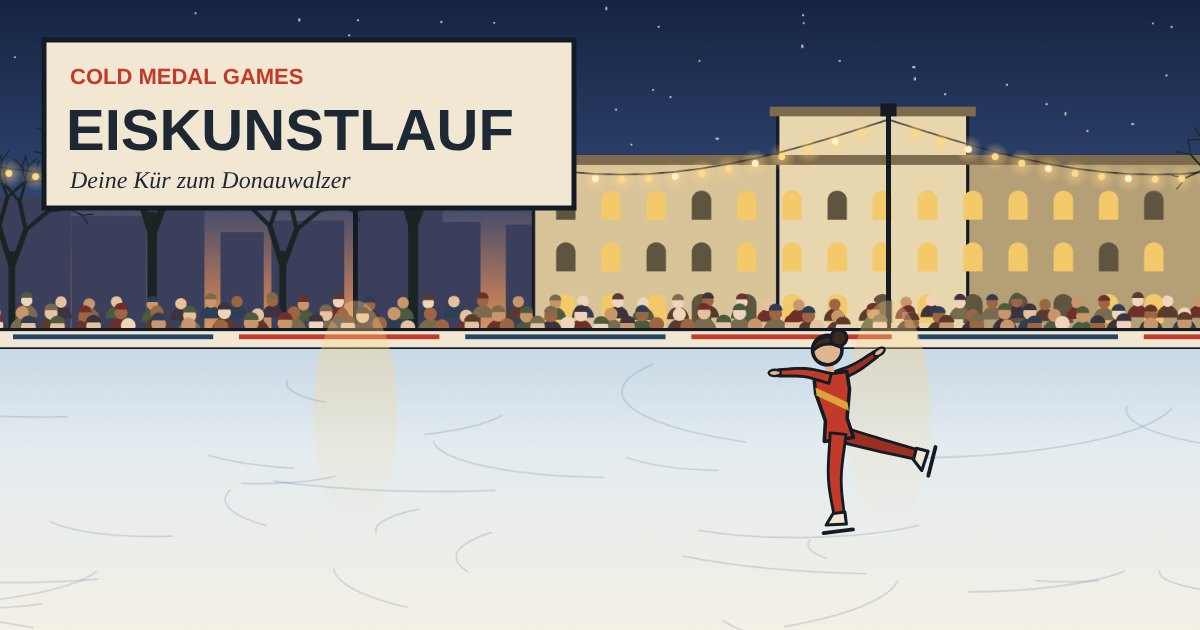
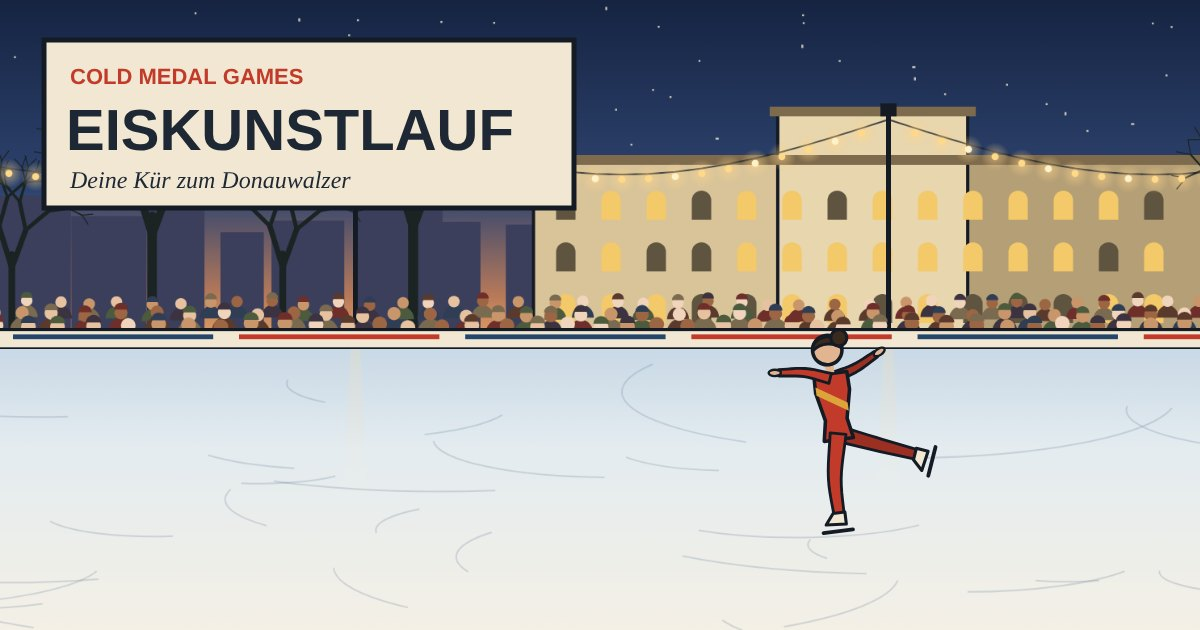
Eiskunstlauf 0.2.4: keine gelben Flecken auf dem Eis
Claude-Session: https://claude.ai/code/session_014DHnXgtg4kguC8BCH6aDVR

Changed region(s): [[0.2467, 0.4825, 0.3392, 0.6635], [0.7092, 0.4825, 0.7708, 0.6635]]

diff --git a/index.html b/index.html
@@ -1171,9 +1171,10 @@ tr.fall td.e, tr.miss td.e { color: var(--red); }
     const ice = g.createLinearGradient(0, ICE_TOP, 0, H);
     ice.addColorStop(0, "#C9D9E6"); ice.addColorStop(0.35, "#E4ECF0"); ice.addColorStop(1, "#F4F0E6");
     g.fillStyle = ice; g.fillRect(0, ICE_TOP, w, H - ICE_TOP);
+    // Spiegelung der Laternen: schmaler, zarter Lichtstreif, der nach vorn ausläuft
     for (const x of posts) {
-      const gl = g.createLinearGradient(0, ICE_TOP, 0, ICE_TOP + 110); gl.addColorStop(0, "rgba(255,214,140,0.35)"); gl.addColorStop(1, "rgba(255,214,140,0)");
-      g.fillStyle = gl; g.beginPath(); g.ellipse(x, ICE_TOP + 40, 26, 70, 0, 0, 7); g.fill();
+      const gl = g.createLinearGradient(0, ICE_TOP, 0, ICE_TOP + 90); gl.addColorStop(0, "rgba(255,226,170,0.22)"); gl.addColorStop(1, "rgba(255,226,170,0)");
+      g.fillStyle = gl; g.beginPath(); g.moveTo(x - 3, ICE_TOP); g.lineTo(x + 3, ICE_TOP); g.lineTo(x + 7, ICE_TOP + 90); g.lineTo(x - 7, ICE_TOP + 90); g.closePath(); g.fill();
     }
     g.strokeStyle = "rgba(120,140,160,0.28)"; g.lineWidth = 1;
     for (let i = 0; i < 90; i++) {
@@ -1212,7 +1213,7 @@ tr.fall td.e, tr.miss td.e { color: var(--red); }
 /* COLD MEDAL EISKUNSTLAUF – Ablauf, Bildschirme, Eingabe, Taktband, Ergebnis, Spielstand. */
 (function () {
   "use strict";
-  const VERSION = "0.2.3";
+  const VERSION = "0.2.4";
   // Seiten-Einstellungen aus dem Build (eigenes Hosting: Adresse, Hoster, Impressum); im claude.ai-Artefakt leer
   const SITE = Object.assign({ web: false, url: "", impressum: null }, {"web": true, "url": "https://matpeins-debug.github.io/cold-medal-eiskunstlauf/", "hoster": "GitHub Pages (GitHub Inc., USA)", "drittland": "GitHub ist nach dem EU-US Data Privacy Framework zertifiziert; die Übermittlung in die USA stützt sich auf den Angemessenheitsbeschluss der EU-Kommission dazu.", "impressum": {"name": "", "adresse": "", "mail": ""}} || {});
   const M = window.EKMusic, K = window.EKSkate, F = window.EKFigure, SC = window.EKScene;

diff --git a/sw.js b/sw.js
@@ -1,6 +1,6 @@
 // Cold Medal Eiskunstlauf: Offline-Speicher. Beim ersten Besuch wird alles geladen, danach startet das Spiel auch ohne Netz.
 // Die Seite selbst kommt zuerst aus dem Netz (neue Version), ohne Netz aus dem Speicher.
-const CACHE = "eiskunstlauf-0.2.3";
+const CACHE = "eiskunstlauf-0.2.4";
 const FILES = ["./", "index.html", "manifest.webmanifest", "icons/icon-192.png", "icons/icon-512.png", "icons/apple-touch-icon.png"];
 self.addEventListener("install", (e) => {
   e.waitUntil(caches.open(CACHE).then((c) => c.addAll(FILES)).then(() => self.skipWaiting()));

diff --git a/README.md b/README.md
@@ -2,4 +2,4 @@
 
 Inoffizielles Fanspiel im Browser: https://matpeins-debug.github.io/cold-medal-eiskunstlauf/
 
-Quellcode liegt privat; dieses Repo enthält nur die fertige Seite (Version 0.2.3).
+Quellcode liegt privat; dieses Repo enthält nur die fertige Seite (Version 0.2.4).
